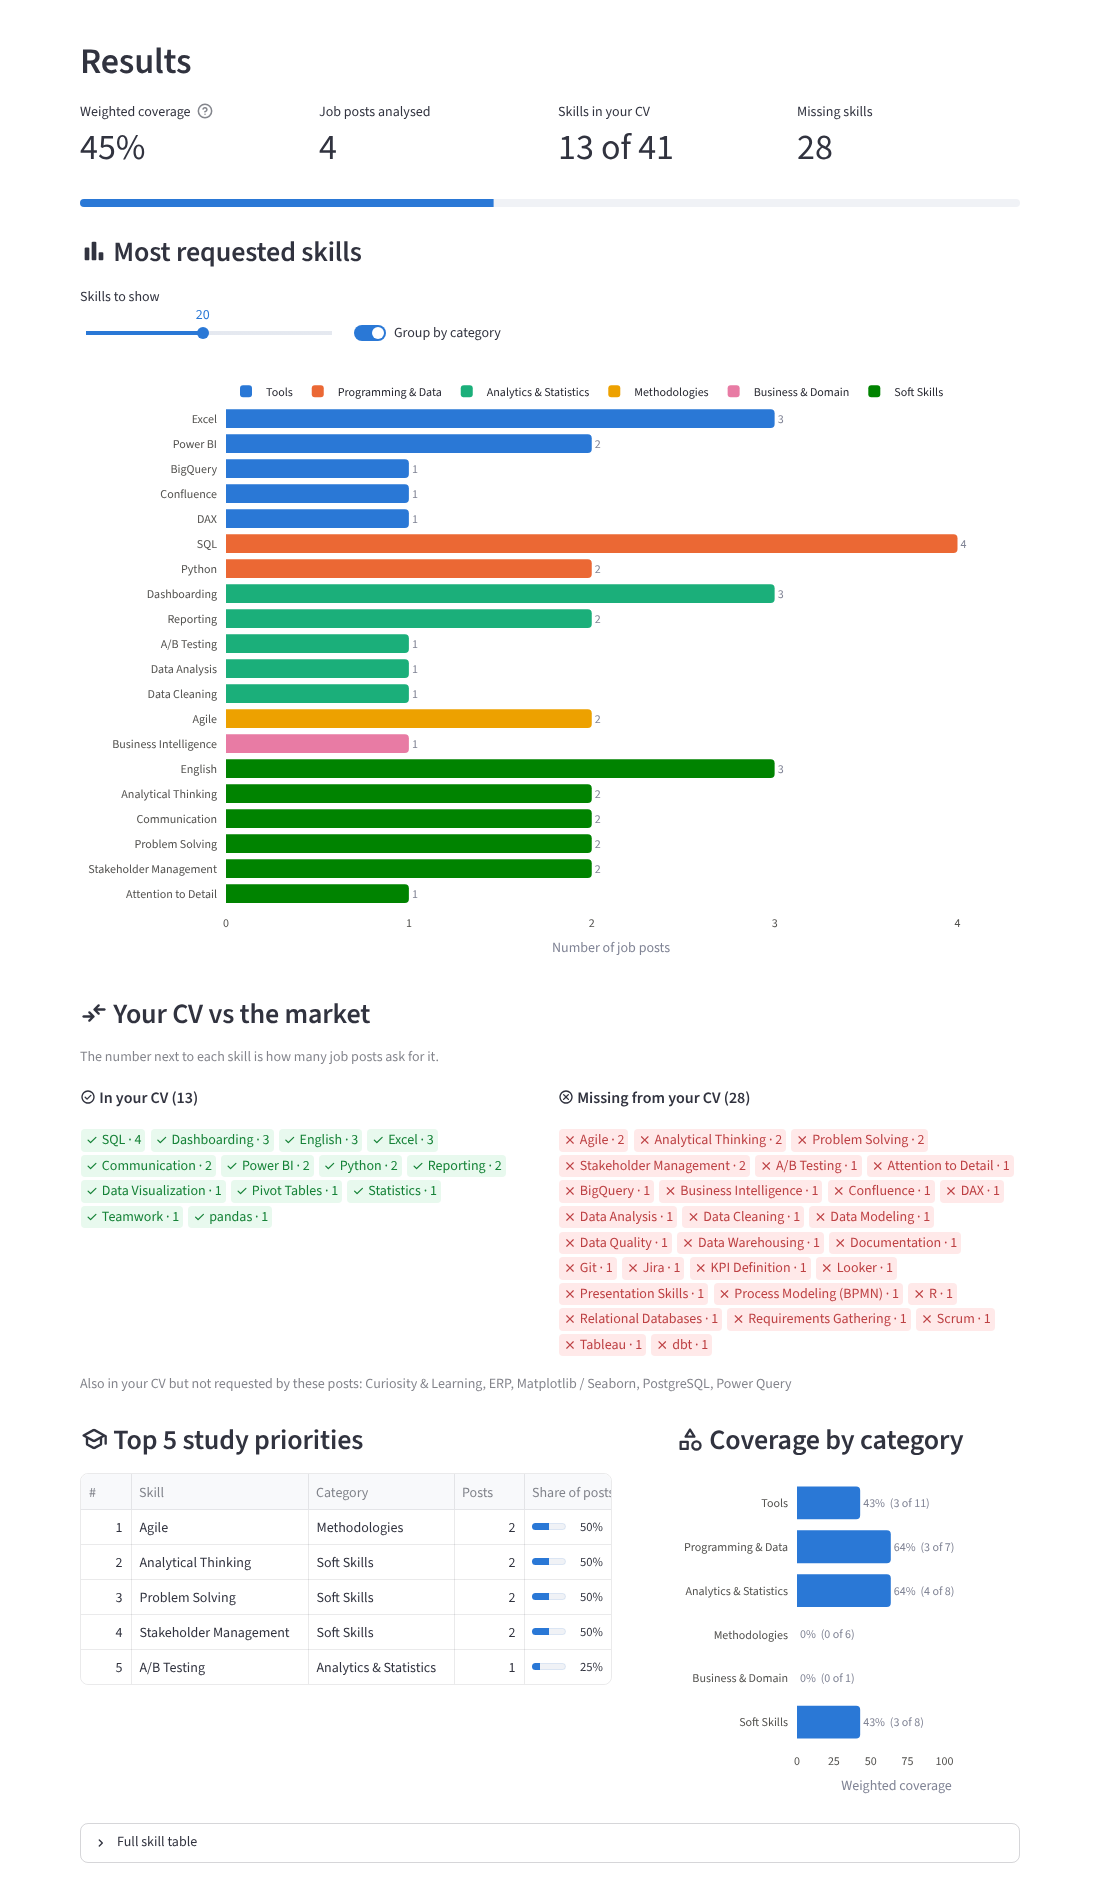
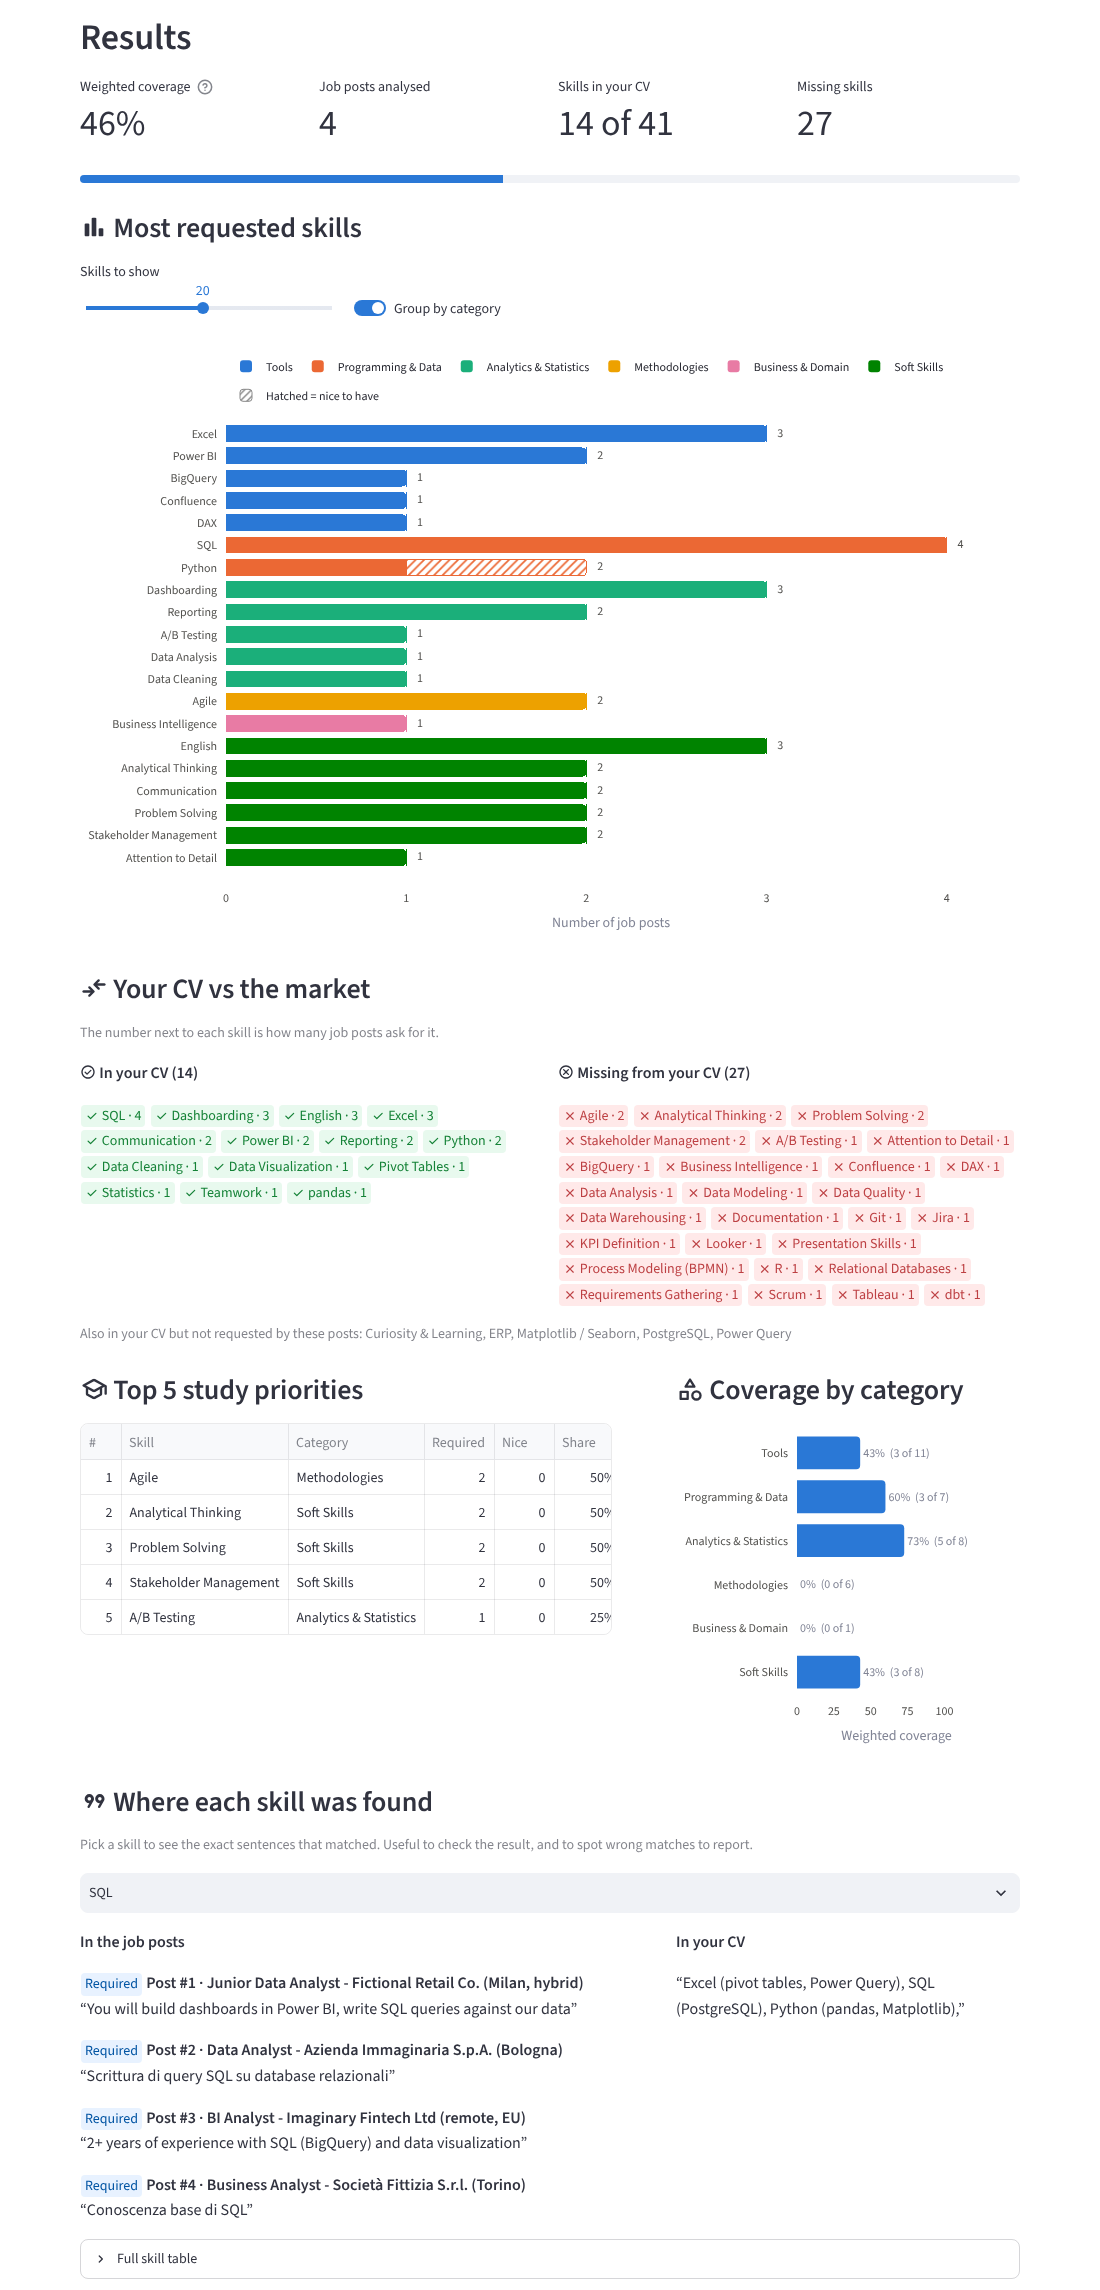
Add a target-role selector and refresh README and screenshot
Claude-Session: https://claude.ai/code/session_01AaoYWGiG7jCNFpcVpApXSv

diff --git a/app.py b/app.py
@@ -31,7 +31,12 @@ from skill_gap.extractor import (
     split_job_posts,
 )
 from skill_gap.pdf_reader import PdfReadError, extract_text_from_pdf
-from skill_gap.skills_dictionary import DictionaryError, SkillDictionary, load_dictionary
+from skill_gap.skills_dictionary import (
+    DictionaryError,
+    SkillDictionary,
+    list_dictionaries,
+    load_dictionary,
+)
 
 SAMPLES_DIR = Path(__file__).resolve().parent / "data" / "samples"
 MODE_SINGLE_BOX = "One text box (separate posts with ---)"
@@ -46,13 +51,19 @@ st.set_page_config(page_title="Skill Gap Analyzer", page_icon=":material/insight
 # Data loading
 # ---------------------------------------------------------------------------
 @st.cache_resource
-def get_dictionary() -> SkillDictionary:
-    """Load the skill dictionary once per server process.
+def get_dictionary(path: str) -> SkillDictionary:
+    """Load a skill dictionary once per server process.
 
-    Only the dictionary is cached. The CV and the job posts are NEVER cached,
-    so they cannot leak between users or outlive the session.
+    Only the dictionaries are cached. The CV and the job posts are NEVER
+    cached, so they cannot leak between users or outlive the session.
     """
-    return load_dictionary()
+    return load_dictionary(path)
+
+
+@st.cache_resource
+def get_dictionary_files() -> dict[str, str]:
+    """Role name -> dictionary file, for every file in data/dictionaries/."""
+    return {role: str(path) for role, path in list_dictionaries().items()}
 
 
 def read_sample(name: str) -> str:
@@ -270,7 +281,8 @@ def render_results(
     if table.empty:
         st.warning(
             ":material/search_off: No known skills were found in the job posts. "
-            "Check that you pasted the full text, or extend data/skills.yaml."
+            "Check that you pasted the full text, pick another target role in the sidebar, "
+            "or extend the dictionaries in data/dictionaries/."
         )
         return
 
@@ -387,7 +399,14 @@ def render_results(
 def main() -> None:
     init_state()
     try:
-        dictionary = get_dictionary()
+        dictionary_files = get_dictionary_files()
+        with st.sidebar:
+            role = st.selectbox(
+                ":material/work: Target role",
+                list(dictionary_files),
+                help="Each role has its own skill dictionary in data/dictionaries/.",
+            )
+        dictionary = get_dictionary(dictionary_files[role])
     except DictionaryError as exc:
         st.error(f"The skill dictionary could not be loaded: {exc}")
         st.stop()
@@ -401,8 +420,8 @@ def main() -> None:
         f"real job posts. Spotted a wrong or missing skill? [Open an issue]({ISSUES_URL})."
     )
     st.markdown(
-        "Find out which skills the job market asks for in **Data Analyst, BI Analyst "
-        "and Business Analyst** roles, and which ones are missing from your CV."
+        f"Find out which skills the job market asks for in **{dictionary.description or role}**, "
+        "and which ones are missing from your CV. Change the target role in the sidebar."
     )
     st.info(
         "**Privacy:** nothing is saved. Your CV and the job posts stay in memory only "

diff --git a/README.md b/README.md
@@ -6,7 +6,7 @@
 
 **Compare your CV with real job posts and see which data skills the market wants — and which ones you are missing.**
 
-Built for people looking for **Data Analyst, BI Analyst and Business Analyst** roles.
+Built for people looking for **Data Analyst, BI Analyst and Business Analyst** roles, with a second dictionary for **Data Engineer / Analytics Engineer** roles (pick the target role in the sidebar).
 Upload your CV (PDF), paste a few job posts (English or Italian) and get:
 
 - the most requested skills, grouped by category;
@@ -60,7 +60,7 @@ CV (PDF) ──► pdf_reader ──┐
                           ├─► extractor ──► analysis ──► charts / UI
 Job posts ──► split "---" ┘       ▲
                                   │
-                       data/skills.yaml (dictionary)
+                 data/dictionaries/*.yaml (one per role)
 ```
 
 1. **PDF reading** – `pdfplumber` extracts the text of the CV directly from the
@@ -103,11 +103,18 @@ Example: SQL is asked by 4 posts and is in your CV, Tableau is asked by 1 post
 and is missing → coverage = 4 / (4 + 1) = **80%**. An unweighted count would say
 50%, overstating a skill that only one employer wants.
 
-### Skill dictionary
+### Skill dictionaries
 
-The dictionary lives in [`data/skills.yaml`](data/skills.yaml): **119 skills** in
-six categories (Tools, Programming & Data, Analytics & Statistics, Methodologies,
-Business & Domain, Soft Skills), each with English and Italian synonyms.
+Each target role has its own dictionary in [`data/dictionaries/`](data/dictionaries/),
+with English and Italian synonyms:
+
+| Role | File | Skills | Categories |
+|---|---|---|---|
+| Data Analyst / BI / Business Analyst (default) | [`data_analytics.yaml`](data/dictionaries/data_analytics.yaml) | 119 | Tools, Programming & Data, Analytics & Statistics, Methodologies, Business & Domain, Soft Skills |
+| Data Engineer / Analytics Engineer | [`data_engineering.yaml`](data/dictionaries/data_engineering.yaml) | 87 | Cloud & Platforms, Programming & Databases, Pipelines & Processing, Data Architecture, Engineering Practices, Soft Skills |
+
+Soft skills and languages live in [`shared/soft_skills.yaml`](data/dictionaries/shared/soft_skills.yaml)
+and are pulled into both dictionaries with `include`, so they are maintained once.
 
 ```yaml
 - name: Power BI
@@ -137,8 +144,10 @@ Matching rules:
 The loader validates the file at startup (unknown categories, duplicate names,
 a synonym shared by two skills, invalid regex) and shows a clear error.
 
-**Extending it to other industries:** copy `skills.yaml`, change `domain`,
-`categories` and `skills`, and pass the new path to `load_dictionary()`.
+**Adding a role or an industry:** copy a file into `data/dictionaries/`, change
+`domain`, `description`, `categories` and `skills` (and keep
+`include: [shared/soft_skills.yaml]` if the soft skills fit). The app lists every
+`*.yaml` file in that folder automatically, and the tests check that each one is valid.
 
 ## Project structure
 
@@ -153,7 +162,8 @@ skill-gap-analyzer/
 │   ├── analysis.py            # pandas: skill table, coverage, priorities
 │   └── charts.py              # Plotly charts
 ├── data/
-│   ├── skills.yaml            # the skill dictionary (edit me!)
+│   ├── dictionaries/          # one skill dictionary per role (edit me!)
+│   │   └── shared/            # skills included by several roles (soft skills)
 │   └── samples/               # fictional job posts and CV for the demo
 ├── tests/                     # pytest suite with fictional job posts
 ├── assets/screenshot.png
@@ -214,7 +224,7 @@ top of this README.
 
 ## Known limitations
 
-- **Dictionary-based**: only the skills in `skills.yaml` are recognised, and new
+- **Dictionary-based**: only the skills in the dictionaries are recognised, and new
   wording ("analytical" on its own, a brand-new tool) is missed until a synonym is added.
 - **Limited context understanding**: required vs nice to have is detected with
   section headers and marker words, not by understanding the sentence. A list such
@@ -232,7 +242,8 @@ top of this README.
 
 - Skill **levels** (e.g. "advanced Excel") and years of experience.
 - Import job posts from a **URL** or a CSV export of a job board.
-- More **dictionaries** (e.g. Data Engineer, Marketing, Finance) selectable in the app.
+- More **dictionaries** (e.g. Data Scientist, Marketing Analyst, Finance).
+- Sample data for each role (the demo data is for Data Analyst roles).
 - More languages (French, Spanish, German).
 - Optional **OCR** for scanned CVs (e.g. Tesseract).
 - A downloadable **PDF report** with the results.
